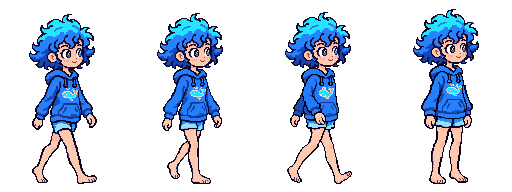
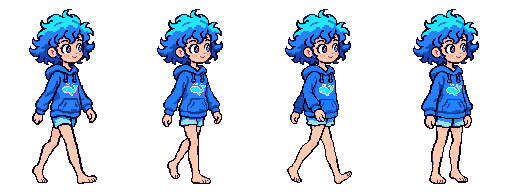
Stabilize Oni's head throughout the walk cycle

diff --git a/assets/production/characters/source/export_oni_walk.py b/assets/production/characters/source/export_oni_walk.py
@@ -1,7 +1,9 @@
 """Export Oni Classic walking at the same pixel scale as the idle sprites."""
 
+from PIL import Image
+
 from export_luna_story import PREPARED, export, frame_on_canvas, pixel_palette
-from export_sprites import CHARACTERS, load
+from export_sprites import CHARACTERS, NEAREST, load
 
 CELL = (128, 192)
 PIVOT = (64, 184)
@@ -24,15 +26,23 @@ def main():
         cels.append(frame_on_canvas(name, 8, (504, supported_sole), CELL, PIVOT, source_dir=SOURCE))
     poses = []
     for (name, duration), frame in zip(POSES, pixel_palette(cels, 48)):
-        # Keep the exact face and hair across the cycle, retaining the step's bob.
-        bob = frame.getbbox()[1] - idle.getbbox()[1]
-        frame.paste((0, 0, 0, 0), (0, 0, CELL[0], head.height + bob))
-        frame.paste(head, (0, bob))
-        poses.append((name, frame, duration))
+        # Register the torso against the idle head. Blend the position into
+        # the original stride between the shorts and the feet.
+        offset = frame.getbbox()[1] - idle.getbbox()[1]
+        width, height = CELL
+        shorts_bottom, feet_top = 133, 172
+        registered = Image.new("RGBA", CELL)
+        registered.paste(frame.crop((0, offset, width, shorts_bottom)), (0, 0))
+        legs = frame.crop((0, shorts_bottom, width, feet_top))
+        legs = legs.resize((width, feet_top - shorts_bottom + offset), NEAREST)
+        registered.paste(legs, (0, shorts_bottom - offset))
+        registered.paste(frame.crop((0, feet_top, width, height)), (0, feet_top))
+        registered.paste(head, (0, 0))
+        poses.append((name, registered, duration))
     export("oni-classic-walk-front-right", "front_right", CELL, PIVOT, poses, {
         "walk": [{"frame": name, "duration_ms": duration} for name, duration in POSES],
         "loop": True,
-    })
+    }, shared_preview_palette=True)
 
 
 if __name__ == "__main__":

diff --git a/assets/production/characters/source/export_luna_story.py b/assets/production/characters/source/export_luna_story.py
@@ -96,7 +96,7 @@ def door_frames():
     return frames
 
 
-def export(name, view, size, anchor, poses, sequence, *, preview_order=None, preview_stride=0, preview_lift=None):
+def export(name, view, size, anchor, poses, sequence, *, preview_order=None, preview_stride=0, preview_lift=None, shared_preview_palette=False):
     width, height = size
     sheet = Image.new("RGBA", (width * len(poses), height))
     frames, records = {}, []
@@ -127,6 +127,12 @@ def export(name, view, size, anchor, poses, sequence, *, preview_order=None, pre
         frame = frames[pose]
         panel.paste(frame, (0, headroom - elevation - index * preview_stride), frame.getchannel("A"))
         preview.append(panel)
+    if shared_preview_palette:
+        samples = Image.new("RGB", (width * len(preview), height + headroom))
+        for index, panel in enumerate(preview):
+            samples.paste(panel, (index * width, 0))
+        palette = samples.quantize(colors=256)
+        preview = [panel.quantize(palette=palette, dither=Image.Dither.NONE) for panel in preview]
     # Pause on the last drawing so the reset of the preview stays readable.
     if preview_stride:
         order = [*order[:-1], (order[-1][0], 500)]
